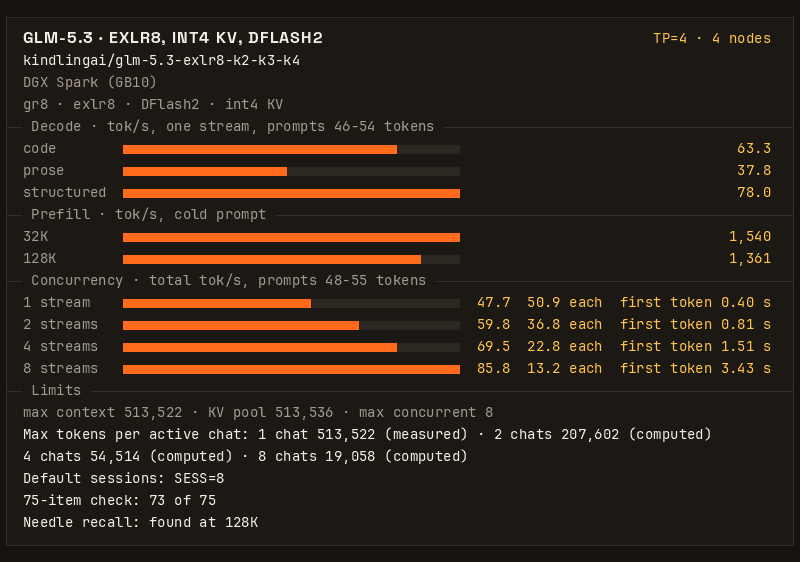
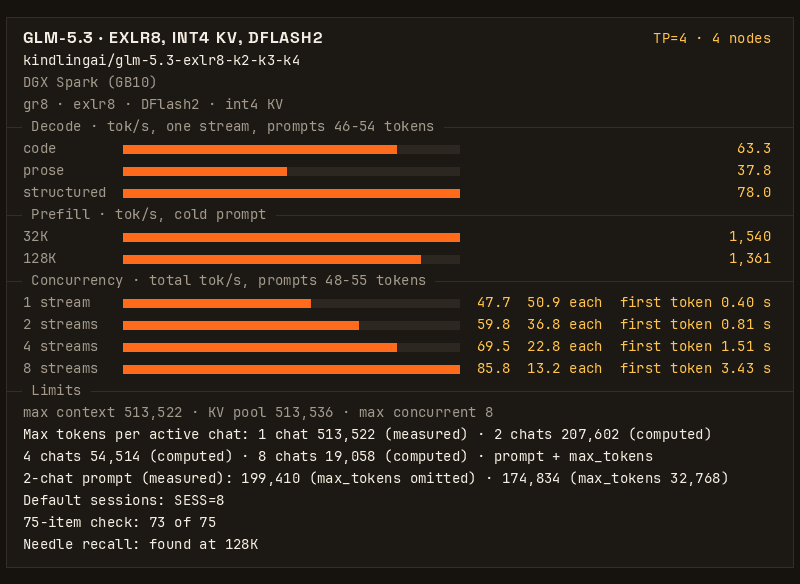
docs: clarify per-chat KV limit is prompt + max_tokens and add measured 2-chat limits

diff --git a/docs/GLM-5.3.md b/docs/GLM-5.3.md
@@ -24,7 +24,7 @@ TP=4 records the current INT4 KV default (`bench/bench.py` on 2026-11-11, one fr
 | prefill, 8K prompt, cold | 635 tok/s | — (32K: 1,540; 128K: 1,361 tok/s†) | 1,554 tok/s | 1,808 tok/s‡ |
 | prefill, 8K prompt, cached | 58,655 tok/s | — | 60,455 tok/s | 62,337 tok/s |
 | KV pool (longest context) | 307,136 tokens (410,624 with int4§) | 513,536 tokens (513,522 max context; 485,376 pool with fp8) | 502,848 tokens | 614,400 tokens (857,600 with int4§) |
-| max tokens per active chat | — | 1: 513,522 (measured); 2: 207,602; 4: 54,514; 8: 19,058 (computed) | — | — |
+| max tokens per active chat (prompt + max_tokens) | — | 1: 513,522 (measured); 2: 207,602†; 4: 54,514; 8: 19,058 (computed) | — | — |
 | requests that share decode steps | up to 32,768 tokens | up to 32,768 tokens | up to 32,768 tokens | up to 131,072 tokens |
 | requests decoding at once | 8 | 8 | 8 | 8 |
 
@@ -34,7 +34,7 @@ clock; the 2200 MHz cap is only for PR-to-PR gate comparisons). One run per fres
 2026-10-24. Each pair of boots gave identical temperature-0 replies, and smoke passed 14/14 on every boot. RigMark's
 structured row is left out: it measures predictable output, not agent speed. TP=3 to TP=5 ran on a build of #140
 before it landed, and TP=6 on 8da82ff. Six boxes on one 200G switch.
-† TP=4: `bench/bench.py` on 2026-11-11, one fresh boot with `./gr8 glm53 up` defaults (`KV_FORMAT=int4`, `--drafter`), GPU clocks uncapped (decode prompts 46-54 tokens; per-stream concurrency 50.9 / 36.8 / 22.8 / 13.2 tok/s and median first token 0.40 / 0.81 / 1.51 / 3.43 s on 48-55-token prompts; 73 of 75 on the 75-item check; 128K needle found).
+† TP=4: `bench/bench.py` on 2026-11-11, one fresh boot with `./gr8 glm53 up` defaults (`KV_FORMAT=int4`, `--drafter`), GPU clocks uncapped (decode prompts 46-54 tokens; per-stream concurrency 50.9 / 36.8 / 22.8 / 13.2 tok/s and median first token 0.40 / 0.81 / 1.51 / 3.43 s on 48-55-token prompts; 73 of 75 on the 75-item check; 128K needle found). Each chat's pool reservation covers prompt + max_tokens (8,192 when max_tokens is omitted); measured 2-chat prompt limit before eviction: 199,410 with max_tokens omitted and 174,834 at max_tokens=32,768 (207,586 at max_tokens=16).
 ‡ One of the six boxes was capped at 2200 MHz (it powers off under sustained load at its full clock), so the TP=6
 column would be a little higher on six uncapped boxes.
 § The TP=3 and TP=6 int4 figures are estimates, not yet booted (TP=6 at its default `SHARE_LIMIT`, 131,072). [KV4.md](KV4.md)

diff --git a/README.md b/README.md
@@ -62,9 +62,10 @@ computed; 233,458 at 8 with `TUNE=context`, computed) · the same image on both 
 [![GLM-5.3 on four DGX Sparks: decode, prefill and concurrency](docs/cards/glm-5.3-4x-spark.png)](docs/GLM-5.3.md)
 
 63.3 tok/s for one request writing code (46-54-token prompts) · 1,540 tok/s prefill on a 32K prompt · 8 requests at
-once (`SESS=8`), 85.8 tok/s in total · int4 KV default: 513,536-token KV pool, max tokens per active chat 513,522 at 1
-(measured) and 207,602 / 54,514 / 19,058 at 2 / 4 / 8 (computed) · a fact hidden in a 128K prompt found · one boot,
-measured 2026-11-11 · no recipe yet: start it on three to six boxes with Docker Compose, from the
+once (`SESS=8`), 85.8 tok/s in total · int4 KV default: 513,536-token KV pool, max tokens per active chat (prompt +
+max_tokens) 513,522 at 1 (measured) and 207,602 / 54,514 / 19,058 at 2 / 4 / 8 (computed; 2-chat prompt limit
+measured: 199,410 with max_tokens omitted, 174,834 at max_tokens=32,768) · a fact hidden in a 128K prompt found ·
+one boot, measured 2026-11-11 · no recipe yet: start it on three to six boxes with Docker Compose, from the
 [Models and install](#models-and-install) table.
 
 [Model page](docs/GLM-5.3.md)
